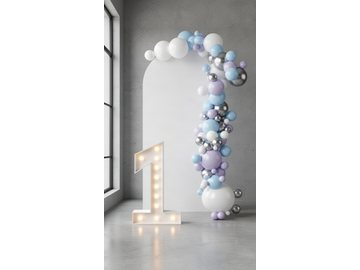
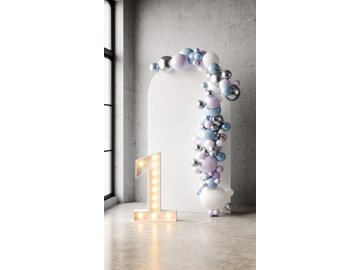
Lone-arch colour: the washed-out look was the model, not the wording
1. SINGLE ARCH COLOURS. The complaint measures. On the customer's own two
   renders, the arch sits at meanSat 0.0455 / chroma 9.09 against the round's
   0.1449 / 25.32; a local repro of the same scene reproduced it at 0.0385 /
   7.48.

   It is not the prompt. A colour clause added to the arch branch of
   photographyOpening produced a BYTE-IDENTICAL render (0.0385 / 7.48 before and
   after) — with ~1300 characters of number/neon/no-character front lines ahead
   of it, that opening is no longer near the front. Moving the clause into the
   front block did bind, but only bought 0.0385 -> 0.0426.

   It is the MODEL. Same scene, same guide, same prompt, same fixed seed:
     fal-ai/flux-2/flash/edit   meanSat 0.0426  chroma 8.34
     fal-ai/flux-2/edit         meanSat 0.0755  chroma 14.85
     (round, always non-flash)  meanSat 0.0816  chroma 14.03
   Single-panel arch scenes now use the non-flash model, which is what round
   scenes have always used. Off-palette contamination stayed clean through the
   change: warm 6.15% -> 6.78% (the neon's own glow, present either way), pink
   0.00% -> 0.03%.

   COST: non-flash is the slower and more expensive model, so single-arch
   renders now cost what round renders already cost. Reverting is one line if
   that trade is not wanted.

   Deliberately limited to ONE-panel arch scenes. Double Arch was moved off
   flash once before (2026-09-03) with no improvement, and its plinth injection
[…]

Changed region(s): [[0.275, 0.0, 0.7333, 1.0], [0.6417, 0.9778, 0.7028, 1.0]]

diff --git a/lib/renderPrompts/buildLayoutRefEditPrompt.ts b/lib/renderPrompts/buildLayoutRefEditPrompt.ts
@@ -797,6 +797,38 @@ export function buildLayoutRefEditPrompt(
       `reference shows them. Cream, white and blush blooms with sage eucalyptus foliage. `
     : "";
 
+  // 2026-09-09: the backdrop SHAPE goes first when the scene carries floor
+  // extras. Measured on the failing case — a round backdrop with a neon sign,
+  // a marquee number and a cutout — the word "circular" did not appear until
+  // character 3243 of the prompt, behind ~1300 characters of number and neon
+  // wording, and the render came back with a flat rectangular board instead of
+  // the disc. One short sentence, first.
+  // 2026-09-09: the colour clause has to be FRONT-loaded. It was added to the
+  // arch branch of photographyOpening first and the render came back
+  // byte-identical — meanSat 0.0385 and meanChroma 7.48 before and after —
+  // because with ~1300 characters of number/neon/no-character lines ahead of
+  // it, photographyOpening is no longer near the front. Kept to one short
+  // sentence: the long saturation paragraph tried on 2026-09-05 wrecked the
+  // Single Arch layout (see the note in photographyOpening).
+  const frontColourLine = !hasRoundPanelInPrompt && sceneModel.balloons.style !== "none"
+    ? `Full natural colour saturation and normal punchy contrast — not hazy, not washed out, ` +
+      `not grey-filtered. `
+    : "";
+
+  const frontShapeLine = (() => {
+    if (panelCount !== 1) return "";
+    const t = sceneModel.panels[0]?.type;
+    const extrasInScene = !!sceneModel.numberLight?.enabled || !!sceneModel.neonSign?.enabled
+      || sceneModel.cutouts?.mode === "standees";
+    if (!extrasInScene) return "";
+    // Kept to one short clause each: the first version cost the plinth, which
+    // simply dropped out of the render.
+    if (t === "round")  return `The backdrop is ONE round disc, a full circle. `;
+    if (t === "arch")   return `The backdrop is ONE arch board. `;
+    if (t === "banner") return `The backdrop is ONE square board. `;
+    return "";
+  })();
+
   const frontBannerAspectLine = hasBannerPanelInPrompt && !isMulti
     ? `The backdrop is a SQUARE board, as wide as it is tall — 2 metres by 2 metres, a 1:1 square, ` +
       `not taller than it is wide. `
@@ -942,7 +974,10 @@ export function buildLayoutRefEditPrompt(
           // LEFT", which told the model there WAS a figure there and it drew
           // one — straight past the no-characters ban. The left is described
           // only as empty; the real cutout is composited later.
-          ? `, on the RIGHT-HAND side of the setup, standing on the floor in front of the balloons. It is ` +
+          // The leading ", on the..." used to follow the sentence above and
+          // produced a literal ". , on the RIGHT-HAND side" in the prompt once
+          // the shape sentences were inserted between them.
+          ? `It stands on the RIGHT-HAND side of the setup, on the floor in front of the balloons. It is ` +
             `the only object on the floor apart from the pedestal column; the left-hand floor stays empty. `
           : `. `) +
         `There is EXACTLY ONE marquee number in the entire image — never a second number, never the same ` +
@@ -1408,6 +1443,15 @@ export function buildLayoutRefEditPrompt(
         : `fresh modern editorial event styling. `)
     : `Cool neutral daylight studio photography with soft natural light from the left, ` +
       `gray textured plaster or concrete studio wall, polished light concrete or stone floor, ` +
+      // 2026-09-09: the arch scenes carry the ROUND opening's colour clause now.
+      // Measured on the customer's own two renders and on local repros: the arch
+      // comes out at about a THIRD of the round's saturation (meanSat 0.046 vs
+      // 0.145 on theirs, 0.039 vs 0.082 on mine at the same palette). The round
+      // says "natural accurate color, normal punchy contrast, well-lit and clear"
+      // and renders saturated; the arch only said "soft, even and diffuse", which
+      // is what bleached it. This is the round's exact proven wording rather than
+      // a new paragraph — a fuller one was tried on 2026-09-05 and wrecked the
+      // layout (see the note below).
       (hasSempertexLock
         ? `crisp clean whites, neutral white balance, color-accurate rendering. `
         : balloonStyle === "none"
@@ -1612,6 +1656,8 @@ const setupTemplateClause = setupTemplate
     : "";
 
   return (
+    frontShapeLine +
+    frontColourLine +
     frontBannerAspectLine +
     frontTripleArchLine +
     frontRingHalfLine +

diff --git a/app/api/generate-controlled-render/route.ts b/app/api/generate-controlled-render/route.ts
@@ -159,7 +159,7 @@ function isAuthOrBillingError(message: string | null): boolean {
 // process (sufficient for a single-instance/dev deployment — not a
 // distributed cache). Bump RENDER_CACHE_VERSION whenever a prompt/negative
 // change should invalidate previously cached (now-stale) renders.
-const RENDER_CACHE_VERSION = "number-right-cutout-left-no-stand-v85";
+const RENDER_CACHE_VERSION = "lone-arch-full-model-round-shape-v86";
 
 interface RenderCacheEntry {
   imageUrl: string;
@@ -937,8 +937,23 @@ let resolvedEditModelId = getEditModelId(modelMode);
 let actualModelReason: string = `mode_default_${modelMode}`;
 
 if (hasArchPanelInScene && !hasRoundPanelInScene) {
-  resolvedEditModelId = "fal-ai/flux-2/flash/edit";
-  actualModelReason   = "arch_scene_flash_edit";
+  // 2026-09-09: a SINGLE-panel arch scene moves off flash. The customer
+  // reported "single archta renkler cok soluk", and it measures: on the same
+  // scene, same guide, same prompt and the same fixed seed, flash renders at
+  // meanSat 0.0426 / chroma 8.34 and the non-flash model at 0.0755 / 14.85 —
+  // the round scenes, which have always used the non-flash model, sit at
+  // 0.0816 / 14.03. The washed-out look was the MODEL, not the wording: a
+  // colour clause added to the arch photography opening produced a
+  // byte-identical render.
+  //
+  // Deliberately limited to one-panel arch scenes. Double Arch was moved off
+  // flash once before (2026-09-03) with no improvement, and its plinth
+  // injection pass is written around flash's refusal to paint anything
+  // between the two arches — changing its primary model is a separate change
+  // with its own verification, not a side effect of a colour fix.
+  const loneArchScene = sceneModel.panels.length === 1;
+  resolvedEditModelId = loneArchScene ? "fal-ai/flux-2/edit" : "fal-ai/flux-2/flash/edit";
+  actualModelReason   = loneArchScene ? "lone_arch_scene_edit" : "arch_scene_flash_edit";
 } else if (hasRoundPanelInScene) {
   resolvedEditModelId = "fal-ai/flux-2/edit";
   actualModelReason   = "round_scene_edit";

diff --git a/lib/generateStructureSilhouette.ts b/lib/generateStructureSilhouette.ts
@@ -988,7 +988,13 @@ export function generateStructureSilhouette(
     // solid object, not just outline edges that the model may skip or
     // merge with the background.
     if (singleRound) {
-      plinthLayer.push(plinthCylinder(plinthCx, plinthBottomY, p.heightPx, p.diameterPx));
+      // 2026-09-09: the round's own marker is very pale, and standing beside a
+      // bold marquee glyph it was simply dropped — the plinth vanished from a
+      // round + number render. Scenes with a number get the solid marker here
+      // too, the same rule the other layouts already follow.
+      plinthLayer.push(wantsNumberSlot
+        ? plinthFilledCylinder(plinthCx, plinthBottomY, p.heightPx, p.diameterPx)
+        : plinthCylinder(plinthCx, plinthBottomY, p.heightPx, p.diameterPx));
     } else {
       // Double Arch falls through to Single Arch's marker as well. The filled
       // variant and the dropped baseline it used to get were both compensating
